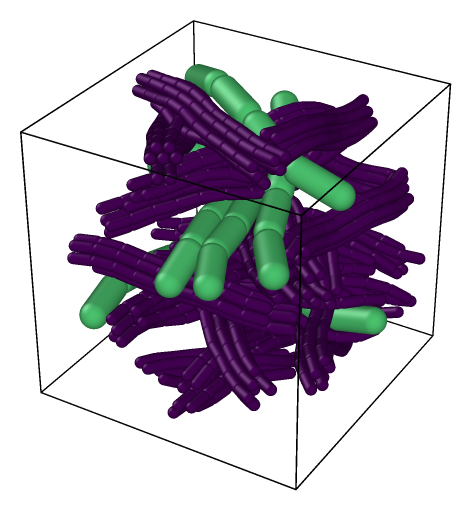
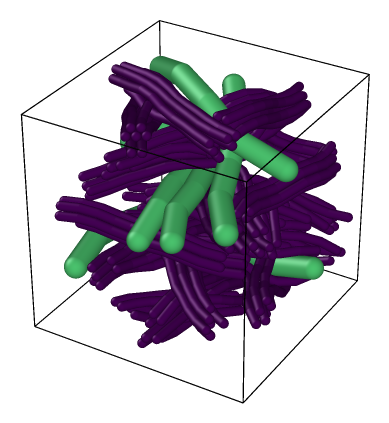
ct_synthetic figures: spherocylinder Z is the cylinder's full length (OVITO 3.16), redo the geometry picture

diff --git a/crates/tangle_python/python/examples/ct_synthetic/make_figures.py b/crates/tangle_python/python/examples/ct_synthetic/make_figures.py
@@ -79,15 +79,15 @@ for f, (line, t) in enumerate(zip(scan.centerlines, scan.types)):
         s = np.linalg.norm(ax)
         ang = np.arctan2(s, d[2])
         q = np.r_[ax / s * np.sin(ang / 2), np.cos(ang / 2)] if s > 1e-9 else np.array([0, 0, 0, 1.0])
-        rows.append((f + 1, r, 0.5 * n + r, q, 0.5 * (a + b), int(t)))
+        rows.append((f + 1, r, n, q, 0.5 * (a + b), int(t)))
 with open(dump, "w") as fh:
     fh.write(f"ITEM: TIMESTEP\n0\nITEM: NUMBER OF ATOMS\n{len(rows)}\nITEM: BOX BOUNDS ff ff ff\n")
     for L in lengths:
         fh.write(f"0 {L:.6g}\n")
     fh.write("ITEM: ATOMS id mol type AsphericalShape.X AsphericalShape.Y AsphericalShape.Z quati quatj quatk quatw "
              "x y z fiber_type\n")
-    for i, (m, r, half, q, c, t) in enumerate(rows, 1):
-        fh.write(f"{i} {m} 1 {r:.3f} {r:.3f} {half:.3f} {q[0]:.6f} {q[1]:.6f} {q[2]:.6f} {q[3]:.6f} "
+    for i, (m, r, length, q, c, t) in enumerate(rows, 1):
+        fh.write(f"{i} {m} 1 {r:.3f} {r:.3f} {length:.3f} {q[0]:.6f} {q[1]:.6f} {q[2]:.6f} {q[3]:.6f} "
                  f"{c[0]:.3f} {c[1]:.3f} {c[2]:.3f} {t}\n")
 if args.ovito:
     render = args.out / "render_geometry.py"
